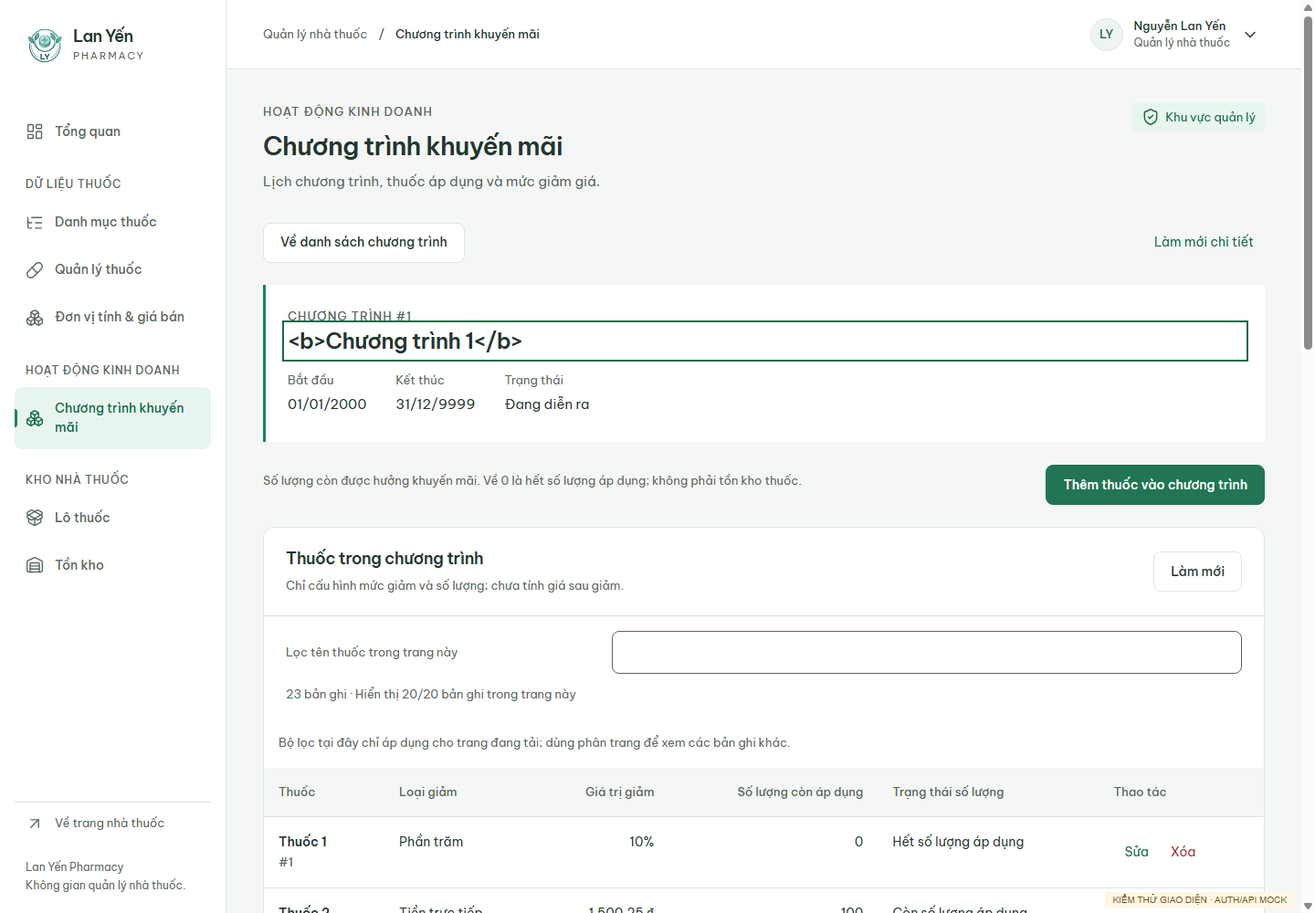
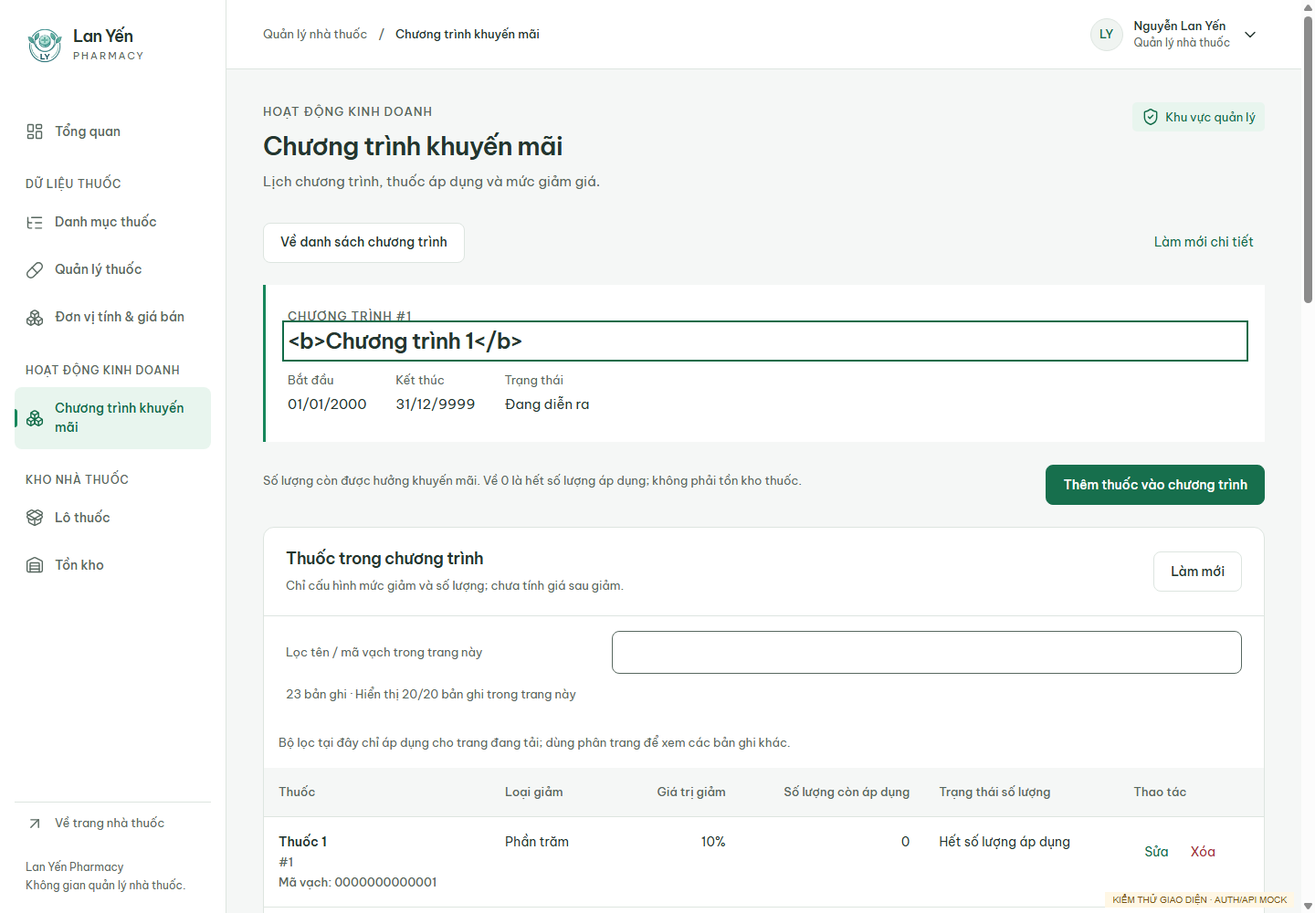
refactor(products): Thêm trường MaVach cho thuốc

diff --git a/frontend/pages/manager/index.html b/frontend/pages/manager/index.html
@@ -1,4 +1,4 @@
-<!doctype html>
+<!doctype html>
 <html lang="vi">
 <head>
     <meta charset="utf-8">
@@ -161,7 +161,7 @@
                         <form id="promotion-form" novalidate>
                             <div id="promotion-program-fields" class="category-dialog__body promotion-fields"></div>
                             <div id="promotion-item-fields" class="category-dialog__body promotion-fields" hidden>
-                                <div id="promotion-product-picker"><label for="promotion-product-search">Tìm thuốc theo tên, mã dược, số đăng ký</label><div class="promotion-product-search"><input id="promotion-product-search" class="categories-input" type="search"><button id="promotion-product-find" class="button button-outline" type="button">Tìm thuốc</button></div><label for="promotion-MaThuoc">Chọn thuốc *</label><select id="promotion-MaThuoc" class="categories-input" aria-describedby="promotion-MaThuoc-error" disabled><option value="">Chọn thuốc…</option></select><p id="promotion-MaThuoc-error" class="category-dialog__error" role="status"></p><p id="promotion-picker-status" class="products-note" role="status"></p><div class="categories-actions"><button id="promotion-picker-prev" class="categories-action" type="button" disabled>Trang thuốc trước</button><button id="promotion-picker-next" class="categories-action" type="button" disabled>Trang thuốc sau</button></div></div>
+                                <div id="promotion-product-picker"><label for="promotion-product-search">Tìm thuốc theo tên, mã vạch, mã dược, số đăng ký</label><div class="promotion-product-search"><input id="promotion-product-search" class="categories-input" type="search"><button id="promotion-product-find" class="button button-outline" type="button">Tìm thuốc</button></div><label for="promotion-MaThuoc">Chọn thuốc *</label><select id="promotion-MaThuoc" class="categories-input" aria-describedby="promotion-MaThuoc-error" disabled><option value="">Chọn thuốc…</option></select><p id="promotion-MaThuoc-error" class="category-dialog__error" role="status"></p><p id="promotion-picker-status" class="products-note" role="status"></p><div class="categories-actions"><button id="promotion-picker-prev" class="categories-action" type="button" disabled>Trang thuốc trước</button><button id="promotion-picker-next" class="categories-action" type="button" disabled>Trang thuốc sau</button></div></div>
                                 <p id="promotion-selected-product" class="products-note" hidden></p>
                                 <div><label for="promotion-LoaiGiamGia">Loại giảm giá *</label><select id="promotion-LoaiGiamGia" class="categories-input" aria-describedby="promotion-LoaiGiamGia-error"><option value="true">Theo phần trăm</option><option value="false">Giảm tiền trực tiếp</option></select><p id="promotion-LoaiGiamGia-error" class="category-dialog__error" role="status"></p></div>
                                 <div><label id="promotion-discount-label" for="promotion-GiaTriGiam">Giá trị giảm (%) *</label><input id="promotion-GiaTriGiam" class="categories-input" type="text" inputmode="decimal" required aria-describedby="promotion-discount-help promotion-GiaTriGiam-error"><p id="promotion-discount-help" class="category-dialog__help"></p><p id="promotion-GiaTriGiam-error" class="category-dialog__error" role="status"></p></div>
@@ -176,7 +176,7 @@
                     <section class="categories-surface stock-picker" aria-labelledby="batch-picker-title">
                         <h2 id="batch-picker-title">Chọn thuốc để quản lý lô</h2>
                         <form id="batch-product-search" class="stock-picker-form" role="search" novalidate>
-                            <div class="products-field"><label for="batch-search">Tìm tên thuốc, mã dược hoặc số đăng ký</label><input id="batch-search" class="categories-input" type="search" aria-describedby="batch-search-error"></div><button class="button button-outline" type="submit">Tìm thuốc</button>
+                            <div class="products-field"><label for="batch-search">Tìm tên thuốc, mã vạch, mã dược hoặc số đăng ký</label><input id="batch-search" class="categories-input" type="search" aria-describedby="batch-search-error"></div><button class="button button-outline" type="submit">Tìm thuốc</button>
                         </form>
                         <p id="batch-search-error" class="category-dialog__error" role="status"></p>
                         <div class="stock-picker-form"><div class="products-field"><label for="batch-product-select">Thuốc trong trang kết quả</label><select id="batch-product-select" class="categories-input" disabled><option value="">Chọn thuốc…</option></select></div><button id="batch-products-prev" class="button button-outline" type="button" disabled>Trước</button><button id="batch-products-next" class="button button-outline" type="button" disabled>Sau</button><button id="batch-products-retry" class="categories-action" type="button">Tải lại thuốc</button></div>
@@ -209,7 +209,7 @@
                         <section class="units-picker categories-surface" aria-labelledby="units-picker-title">
                             <h2 id="units-picker-title">Chọn thuốc</h2>
                             <form id="units-search-form" role="search">
-                                <label for="units-search">Tên thuốc, mã dược hoặc số đăng ký</label>
+                                <label for="units-search">Tên thuốc, mã vạch, mã dược hoặc số đăng ký</label>
                                 <input id="units-search" class="categories-input" type="search" aria-describedby="units-search-error" placeholder="Tìm thuốc…">
                                 <button class="button button-outline" type="submit">Tìm kiếm</button>
                                 <p id="units-search-error" class="category-dialog__error" role="status"></p>
@@ -279,10 +279,10 @@
                     <p id="products-feedback" class="categories-feedback" role="status" hidden></p>
                     <div id="products-list">
                         <form id="products-filters" class="products-filters" role="search">
-                            <div class="products-field products-filters__search"><label for="products-search">Tìm thuốc</label><input id="products-search" class="categories-input" type="search" placeholder="Tên thuốc, mã dược, số đăng ký" aria-describedby="products-filter-error"></div>
+                            <div class="products-field products-filters__search"><label for="products-search">Tìm thuốc</label><input id="products-search" class="categories-input" type="search" placeholder="Tên thuốc, mã vạch, mã dược, số đăng ký" aria-describedby="products-filter-error"></div>
                             <div class="products-field"><label for="products-category">Danh mục</label><select id="products-category" class="categories-input"><option value="">Tất cả danh mục</option></select></div>
                             <div class="products-field"><label for="products-classification">Phân loại</label><select id="products-classification" class="categories-input"><option value="">Tất cả phân loại</option><option value="true">Cần dược sĩ tư vấn</option><option value="false">Không cần tư vấn</option></select></div>
-                            <div class="products-field"><label for="products-sort">Sắp xếp</label><select id="products-sort" class="categories-input"><option value="MaThuoc:desc">Mã mới nhất</option><option value="MaThuoc:asc">Mã tăng dần</option><option value="TenThuoc:asc">Tên A → Z</option><option value="TenThuoc:desc">Tên Z → A</option><option value="MaDuoc:asc">Mã dược tăng dần</option><option value="NguongTonKho:asc">Ngưỡng tồn tăng dần</option></select></div>
+                            <div class="products-field"><label for="products-sort">Sắp xếp</label><select id="products-sort" class="categories-input"><option value="MaThuoc:desc">Mã mới nhất</option><option value="MaThuoc:asc">Mã tăng dần</option><option value="TenThuoc:asc">Tên A → Z</option><option value="TenThuoc:desc">Tên Z → A</option><option value="MaDuoc:asc">Mã dược tăng dần</option><option value="MaVach:asc">Mã vạch tăng dần</option><option value="NguongTonKho:asc">Ngưỡng tồn tăng dần</option></select></div>
                             <div class="products-filters__actions"><button class="button button-primary" type="submit">Áp dụng</button><button id="products-reset" class="button button-outline" type="button">Bỏ bộ lọc</button></div>
                             <p id="products-filter-error" class="category-dialog__error" role="status"></p>
                         </form>

diff --git a/frontend/js/pages/manager-promotions.js b/frontend/js/pages/manager-promotions.js
@@ -82,15 +82,15 @@ export function setupPromotions({ root, onAccessError }) {
     const itemRow = item => {
         const row = n('tr'), name = n('th'), identity = n('div', undefined, 'promotion-item-identity'), product = products.get(item.MaThuoc); name.scope = 'row';
         if (validHttps(product?.HinhAnh)) { const image = n('img'); image.src = product.HinhAnh; image.alt = `Ảnh ${product.TenThuoc}`; image.referrerPolicy = 'no-referrer'; image.addEventListener('error', () => { image.hidden = true; }); identity.append(image); }
-        const text = n('div'); text.append(n('strong', product.TenThuoc), n('span', `#${item.MaThuoc}`)); identity.append(text); name.append(identity);
+        const text = n('div'); text.append(n('strong', product.TenThuoc), n('span', `#${item.MaThuoc}`), n('span', `Mã vạch: ${product.MaVach || 'Chưa có'}`)); identity.append(text); name.append(identity);
         const actions = n('td');
         for (const [action, label] of [['edit', 'Sửa'], ['delete', 'Xóa']]) {
             const button = n('button', label, `categories-action${action === 'delete' ? ' categories-action--delete' : ''}`); button.type = 'button'; button.dataset.itemAction = action; button.dataset.id = item.MaThuoc; button.setAttribute('aria-label', `${label} khuyến mãi của ${product.TenThuoc}`); actions.append(button);
         }
         row.append(name, n('td', item.LoaiGiamGia ? 'Phần trăm' : 'Tiền trực tiếp'), n('td', formatPromotionDiscount(item), 'stock-number'), n('td', new Intl.NumberFormat('vi-VN').format(item.SoLuong), 'stock-number'), n('td', item.SoLuong ? 'Còn số lượng áp dụng' : 'Hết số lượng áp dụng'), actions); return row;
     };
-    itemRow.search = item => products.get(item.MaThuoc)?.TenThuoc || '';
-    const itemTable = setupStockTable({ root: $('promotion-items-table'), id: 'promotion-items', title: 'Thuốc trong chương trình', description: 'Chỉ cấu hình mức giảm và số lượng; chưa tính giá sau giảm.', columns: [['Thuốc'], ['Loại giảm'], ['Giá trị giảm', true], ['Số lượng còn áp dụng', true], ['Trạng thái số lượng'], ['Thao tác']], filterLabel: 'Lọc tên thuốc trong trang này', onLoad: next => loadItems(next), renderRow: itemRow });
+    itemRow.search = item => `${products.get(item.MaThuoc)?.TenThuoc || ''} ${products.get(item.MaThuoc)?.MaVach || ''}`;
+    const itemTable = setupStockTable({ root: $('promotion-items-table'), id: 'promotion-items', title: 'Thuốc trong chương trình', description: 'Chỉ cấu hình mức giảm và số lượng; chưa tính giá sau giảm.', columns: [['Thuốc'], ['Loại giảm'], ['Giá trị giảm', true], ['Số lượng còn áp dụng', true], ['Trạng thái số lượng'], ['Thao tác']], filterLabel: 'Lọc tên / mã vạch trong trang này', onLoad: next => loadItems(next), renderRow: itemRow });
     async function loadItems(next = itemPage) {
         if (!active || !current) return;
         const id = detailId, attempt = begin('items'); itemsReady = false; $('promotion-item-add').disabled = true; itemTable.loading(); itemPage = next;
@@ -161,7 +161,7 @@ export function setupPromotions({ root, onAccessError }) {
             const assigned = new Set(items.map(item => item.MaThuoc));
             for (const item of data.items) {
                 if (!Number.isInteger(item.MaThuoc) || typeof item.TenThuoc !== 'string') throw new ApiError('INVALID_RESPONSE');
-                const option = new Option(`${item.TenThuoc} · #${item.MaThuoc}${assigned.has(item.MaThuoc) ? ' · Đã có trong chương trình' : ''}`, String(item.MaThuoc)); option.disabled = assigned.has(item.MaThuoc); $('promotion-MaThuoc').append(option); products.set(item.MaThuoc, item);
+                const option = new Option(`${item.TenThuoc} · #${item.MaThuoc} · Mã vạch: ${item.MaVach || 'Chưa có'}${assigned.has(item.MaThuoc) ? ' · Đã có trong chương trình' : ''}`, String(item.MaThuoc)); option.disabled = assigned.has(item.MaThuoc); $('promotion-MaThuoc').append(option); products.set(item.MaThuoc, item);
             }
             pickerReady = true; pickerPages = data.pages; $('promotion-MaThuoc').disabled = busy;
             $('promotion-picker-status').textContent = data.total ? `${data.total} thuốc · Trang ${data.page}/${data.pages}. Thuốc đã gán được vô hiệu hóa.` : 'Không có thuốc phù hợp.';
@@ -186,7 +186,7 @@ export function setupPromotions({ root, onAccessError }) {
             if (!alive('dialog', attempt) || !dialog.open) return;
             if (itemMode) {
                 checkItem(data.item, detailId); if (data.item.MaThuoc !== id) throw new ApiError('INVALID_RESPONSE');
-                $('promotion-selected-product').textContent = `${products.get(id)?.TenThuoc || `Thuốc #${id}`} · #${id}`;
+                $('promotion-selected-product').textContent = `${products.get(id)?.TenThuoc || `Thuốc #${id}`} · #${id} · Mã vạch: ${products.get(id)?.MaVach || 'Chưa có'}`;
                 for (const key of ['LoaiGiamGia', 'SoLuong']) $(`promotion-${key}`).value = String(data.item[key]);
                 $('promotion-GiaTriGiam').value = data.item.LoaiGiamGia ? String(Number(data.item.GiaTriGiam)) : data.item.GiaTriGiam;
                 $('promotion-delete-name').textContent = `${products.get(id)?.TenThuoc || `Thuốc #${id}`} · ${formatPromotionDiscount(data.item)} · Số lượng: ${data.item.SoLuong}`;

diff --git a/frontend/js/pages/manager-inventory.js b/frontend/js/pages/manager-inventory.js
@@ -16,24 +16,26 @@ export function setupInventory({ root, onAccessError, onOpenBatches }) {
     const summaryRow = item => {
         if (typeof item.TonKhoThap !== 'boolean') throw new ApiError('INVALID_RESPONSE');
         const tr = n('tr'), name = n('th', `${item.TenThuoc} · #${item.MaThuoc}`); name.scope = 'row';
+        name.append(n('span', `Mã vạch: ${item.MaVach || 'Chưa có'}`, 'product-row-meta'));
         const state = n('span', item.TonKhoThap ? 'Chạm / dưới ngưỡng' : 'Trên ngưỡng', `manager-badge${item.TonKhoThap ? ' manager-badge--warning' : ''}`), td = n('td'); td.append(state);
         tr.append(name, n('td', number(item.TongSoLuongTon), 'stock-number'), n('td', number(item.NguongTonKho), 'stock-number'), td, actionCell(item)); return tr;
     };
-    summaryRow.search = item => item.TenThuoc;
+    summaryRow.search = item => `${item.TenThuoc} ${item.MaVach || ''}`;
     const expiryRow = item => {
         const data = sections.get('expiry').data;
         if (!['EXPIRING', 'EXPIRED'].includes(item.TrangThaiHan) || item.TrangThaiHan !== (data.status === 'expired' ? 'EXPIRED' : 'EXPIRING') || dateValue(item.HanSuDung) === null || typeof item.SoLoSanXuat !== 'string' || !Number.isInteger(item.MaLo)) throw new ApiError('INVALID_RESPONSE');
         const tr = n('tr'), name = n('th', item.TenThuoc); name.scope = 'row';
+        name.append(n('span', `Mã vạch: ${item.MaVach || 'Chưa có'}`, 'product-row-meta'));
         tr.append(name, n('td', `${item.SoLoSanXuat} · #${item.MaLo}`), n('td', formatBatchDate(item.HanSuDung), 'stock-date'), n('td', number(item.SoLuongTon), 'stock-number'), n('td', item.TrangThaiHan === 'EXPIRED' ? 'Đã hết hạn' : 'Sắp hết hạn'), n('td', expiryText(item.HanSuDung, data.as_of)), actionCell(item)); return tr;
     };
-    expiryRow.search = item => `${item.TenThuoc} ${item.SoLoSanXuat}`;
+    expiryRow.search = item => `${item.TenThuoc} ${item.MaVach || ''} ${item.SoLoSanXuat}`;
     const stockColumns = [['Thuốc'], ['Tổng SL tồn', true], ['Ngưỡng tồn', true], ['Trạng thái tồn'], ['Thao tác']];
     for (const [key, title, description, columns, renderRow, api, code] of [
         ['summary', 'Tổng hợp tồn theo thuốc', 'Tất cả thuốc, bao gồm thuốc chưa có lô. Tồn vật lý gồm cả lô đã hết hạn.', stockColumns, summaryRow, getInventorySummary, 'INVENTORY_SUMMARY'],
         ['low', 'Thuốc tồn kho thấp', 'Tổng tồn nhỏ hơn hoặc bằng ngưỡng của thuốc, theo kết quả Backend.', stockColumns, summaryRow, getLowStock, 'LOW_STOCK_LISTED'],
         ['expiry', 'Các lô cần theo dõi hạn', 'Chỉ lô còn số lượng tồn. Số ngày được tính từ mốc as_of của Backend.', [['Thuốc'], ['Số lô'], ['Hạn sử dụng'], ['SL tồn', true], ['Trạng thái hạn'], ['Thời gian còn lại'], ['Thao tác']], expiryRow, getExpiry, null]
     ]) {
-        const table = setupStockTable({ root: $(`inventory-${key}`), id: `inventory-${key}`, title, description, columns, filterLabel: key === 'expiry' ? 'Lọc tên thuốc / số lô trong trang này' : 'Lọc tên thuốc trong trang này', onLoad: page => load(key, page), renderRow });
+        const table = setupStockTable({ root: $(`inventory-${key}`), id: `inventory-${key}`, title, description, columns, filterLabel: key === 'expiry' ? 'Lọc tên / mã vạch / số lô trong trang này' : 'Lọc tên / mã vạch trong trang này', onLoad: page => load(key, page), renderRow });
         sections.set(key, { table, api, code, page: 1, version: 0, controller: undefined, data: undefined });
     }
     async function load(key, page = sections.get(key).page) {

diff --git a/frontend/js/pages/manager-batches.js b/frontend/js/pages/manager-batches.js
@@ -55,7 +55,7 @@ export function setupBatches({ root, onAccessError }) {
             if (data.code !== 'PRODUCTS_LISTED' || !Array.isArray(data.items)) throw new ApiError('INVALID_RESPONSE');
             for (const item of data.items) {
                 if (!Number.isInteger(item.MaThuoc) || typeof item.TenThuoc !== 'string') throw new ApiError('INVALID_RESPONSE');
-                $('batch-product-select').append(new Option(`${item.TenThuoc} · #${item.MaThuoc}`, String(item.MaThuoc)));
+                $('batch-product-select').append(new Option(`${item.TenThuoc} · #${item.MaThuoc} · Mã vạch: ${item.MaVach || 'Chưa có'}`, String(item.MaThuoc)));
             }
             $('batch-product-select').value = String(productId || ''); $('batch-product-select').disabled = !data.items.length;
             $('batch-picker-status').textContent = data.total ? `${data.total} thuốc · Trang ${data.page} / ${data.pages}` : 'Không tìm thấy thuốc phù hợp.';
@@ -75,7 +75,7 @@ export function setupBatches({ root, onAccessError }) {
             const data = await getProduct(id, { signal: selectionController.signal });
             if (!active || attempt !== selectionVersion) return;
             if (data.code !== 'PRODUCT_FOUND' || data.product?.MaThuoc !== id || typeof data.product.TenThuoc !== 'string') throw new ApiError('INVALID_RESPONSE');
-            product = data.product; const identity = n('div'); identity.append(n('h3', product.TenThuoc), n('p', `#${id} · Mã dược: ${product.MaDuoc} · SĐK: ${product.SoDangKy}`));
+            product = data.product; const identity = n('div'); identity.append(n('h3', product.TenThuoc), n('p', `#${id} · Mã dược: ${product.MaDuoc} · SĐK: ${product.SoDangKy}`), n('p', `Mã vạch: ${product.MaVach || 'Chưa có'}`));
             if (validHttps(product.HinhAnh)) { const image = n('img'); image.alt = `Ảnh ${product.TenThuoc}`; image.referrerPolicy = 'no-referrer'; image.src = product.HinhAnh; image.addEventListener('error', () => { image.hidden = true; }); $('batch-product-identity').append(image); }
             $('batch-product-identity').append(identity); $('batch-product-identity').hidden = false; $('batch-add').disabled = false;
             $('batch-product-select').value = String(id); loadList(1);

diff --git a/frontend/js/pages/manager-units.js b/frontend/js/pages/manager-units.js
@@ -49,7 +49,7 @@ export function setupUnits({ root, onAccessError }) {
             for (const item of data.items) {
                 if (!integer(item.MaThuoc) || typeof item.TenThuoc !== 'string') throw new ApiError('INVALID_RESPONSE');
                 const li = node('li'), button = node('button'); button.type = 'button'; button.dataset.id = item.MaThuoc;
-                button.append(node('strong', item.TenThuoc), node('span', `#${item.MaThuoc} · ${item.MaDuoc || 'Chưa có mã dược'}`));
+                button.append(node('strong', item.TenThuoc), node('span', `#${item.MaThuoc} · ${item.MaDuoc || 'Chưa có mã dược'}`), node('span', `Mã vạch: ${item.MaVach || 'Chưa có'}`));
                 li.append(button); $('units-products').append(li);
             }
             markSelection(); $('units-picker-status').textContent = data.total ? `${data.total} thuốc phù hợp` : 'Không tìm thấy thuốc. Thử từ khóa khác.';
@@ -103,7 +103,7 @@ export function setupUnits({ root, onAccessError }) {
             if (!active || attempt !== selectionVersion) return;
             if (data.code !== 'PRODUCT_FOUND' || data.product?.MaThuoc !== id || typeof data.product.TenThuoc !== 'string') throw new ApiError('INVALID_RESPONSE');
             product = data.product;
-            const identity = node('div'); identity.append(node('h3', product.TenThuoc), node('p', `#${id} · Mã dược: ${product.MaDuoc} · SĐK: ${product.SoDangKy}`));
+            const identity = node('div'); identity.append(node('h3', product.TenThuoc), node('p', `#${id} · Mã dược: ${product.MaDuoc} · SĐK: ${product.SoDangKy}`), node('p', `Mã vạch: ${product.MaVach || 'Chưa có'}`));
             if (validHttps(product.HinhAnh)) {
                 const image = node('img'); image.alt = `Ảnh ${product.TenThuoc}`; image.referrerPolicy = 'no-referrer'; image.src = product.HinhAnh;
                 image.addEventListener('error', () => { image.hidden = true; }); $('units-product').append(image);

diff --git a/frontend/js/pages/manager-products.js b/frontend/js/pages/manager-products.js
@@ -167,7 +167,7 @@ export function setupProducts({ root, onAccessError }) {
                 image.addEventListener('error', () => { image.hidden = true; });
                 const text = node('div'); text.append(node('strong', product.TenThuoc), node('span', `#${product.MaThuoc}`, 'product-row-meta'));
                 identityWrap.append(image, text); identity.append(identityWrap);
-                const identifiers = node('td'); identifiers.append(node('span', product.MaDuoc), node('span', `SĐK: ${product.SoDangKy}`, 'product-row-meta'));
+                const identifiers = node('td'); identifiers.append(node('span', product.MaDuoc), node('span', `Mã vạch: ${product.MaVach || 'Chưa có'}`, 'product-row-meta'), node('span', `SĐK: ${product.SoDangKy}`, 'product-row-meta'));
                 const actions = node('td'), actionWrap = node('div', undefined, 'product-row-actions');
                 for (const [action, label] of [['view', 'Xem'], ['edit', 'Sửa'], ['delete', 'Xóa']]) {
                     const button = node('button', label, `categories-action${action === 'delete' ? ' categories-action--delete' : ''}`);

diff --git a/frontend/js/utils/product-validation.js b/frontend/js/utils/product-validation.js
@@ -1,5 +1,5 @@
 export const PRODUCT_GROUPS = [
-    { title: 'Thông tin cơ bản', fields: [['TenThuoc', 'Tên thuốc', 255], ['MaLoaiThuoc', 'Danh mục thuốc', 'category'], ['MaDuoc', 'Mã dược', 50], ['SoDangKy', 'Số đăng ký', 100], ['PhanLoai', 'Phân loại thuốc', 'boolean']] },
+    { title: 'Thông tin cơ bản', fields: [['TenThuoc', 'Tên thuốc', 255], ['MaLoaiThuoc', 'Danh mục thuốc', 'category'], ['MaDuoc', 'Mã dược', 50], ['MaVach', 'Mã vạch', 255], ['SoDangKy', 'Số đăng ký', 100], ['PhanLoai', 'Phân loại thuốc', 'boolean']] },
     { title: 'Thông tin sản xuất', fields: [['DangBaoChe', 'Dạng bào chế', 255], ['QuyCachDongGoi', 'Quy cách đóng gói', 255], ['NhaSanXuat', 'Nhà sản xuất', 255], ['NuocSanXuat', 'Nước sản xuất', 255]] },
     { title: 'Thông tin sử dụng', fields: [['MoTa', 'Mô tả', 'text'], ['CachDung', 'Cách dùng', 'text'], ['ChongChiDinh', 'Chống chỉ định', 'text'], ['BaoQuan', 'Bảo quản', 'text']] },
     { title: 'Quản lý tồn kho', fields: [['NguongTonKho', 'Ngưỡng tồn kho', 'integer']] }

diff --git a/frontend/js/pages/manager-dashboard.js b/frontend/js/pages/manager-dashboard.js
@@ -64,6 +64,7 @@ export function setupDashboard({ root, onAccessError }) {
         const list = $(key === 'low-stock' ? 'low-stock-list' : 'expiring-list'); list.replaceChildren();
         for (const item of data.items) {
             const row = el('li'); row.append(el('strong', item.TenThuoc));
+            row.append(el('span', `Mã vạch: ${item.MaVach || 'Chưa có'}`, 'dashboard-alert-meta'));
             if (key === 'low-stock') {
                 row.append(el('span', `Tồn ${formatCount(item.TongSoLuongTon)} · Ngưỡng ${formatCount(item.NguongTonKho)}`));
             } else row.append(el('span', `Lô ${item.SoLoSanXuat} · HSD ${formatStoredDate(item.HanSuDung)}`),

diff --git a/backend/tests/check_barcode_live.py b/backend/tests/check_barcode_live.py
@@ -1,0 +1,72 @@
+r"""Read-only MaVach metadata/API checks against real PostgreSQL, without mocks.
+
+From backend: .venv\Scripts\python.exe tests/check_barcode_live.py
+Uses test-client signed session for an existing active manager, not an OTP test.
+"""
+import secrets
+import sys
+from pathlib import Path
+from urllib.parse import urlencode
+
+sys.path.insert(0, str(Path(__file__).resolve().parents[1]))
+
+from sqlalchemy import inspect, select, text
+from app import create_app
+from app.extensions import db
+from app.models.nguoi_dung import NguoiDung
+from app.models.thuoc import Thuoc
+
+
+def check():
+    app = create_app()
+    with app.app_context():
+        db.session.execute(text('SET TRANSACTION READ ONLY'))
+        inspector = inspect(db.session.connection())
+        column = next(value for value in inspector.get_columns('Thuoc') if value['name'] == 'MaVach')
+        assert column['type'].length == Thuoc.__table__.c.MaVach.type.length == 255
+        assert column['nullable'] is False and column['default'] is None
+        manager = db.session.execute(select(NguoiDung.MaNguoiDung).where(
+            NguoiDung.VaiTro == 2, NguoiDung.TrangThai.is_(False)).limit(1)).scalar_one_or_none()
+        assert manager is not None, 'NO_ACTIVE_MANAGER'
+        client = app.test_client()
+        base = 'https://localhost'
+        with client.session_transaction(base_url=base) as session:
+            session['user_id'] = manager
+            session['csrf_token'] = secrets.token_urlsafe(32)
+
+        def get(path, expected):
+            response = client.get(path, base_url=base)
+            result = response.get_json()
+            assert response.status_code == 200 and result['code'] == expected
+            return result
+
+        products = get('/api/manager/products?page=1&per_page=20&sort_by=MaVach', 'PRODUCTS_LISTED')
+        for product in products['items']:
+            assert isinstance(product['MaVach'], str)
+            detail = get(f'/api/manager/products/{product["MaThuoc"]}', 'PRODUCT_FOUND')
+            assert detail['product']['MaVach'] == product['MaVach']
+        if products['items']:
+            query = urlencode({'search': products['items'][0]['MaVach'], 'per_page': 100})
+            result = get('/api/manager/products?' + query, 'PRODUCTS_LISTED')
+            assert any(row['MaThuoc'] == products['items'][0]['MaThuoc'] for row in result['items'])
+        inventory_count = 0
+        for suffix, code in [('summary', 'INVENTORY_SUMMARY'), ('low-stock', 'LOW_STOCK_LISTED'),
+                             ('expiring?status=expiring', 'EXPIRING_BATCHES_LISTED'),
+                             ('expiring?status=expired', 'EXPIRED_BATCHES_LISTED')]:
+            result = get('/api/manager/inventory/' + suffix, code)
+            for row in result['items']:
+                assert isinstance(row['MaVach'], str)
+                inventory_count += 1
+        db.session.rollback()
+        print(f'PASS real PostgreSQL READ ONLY: MaVach metadata/model match, product sort/list/detail, 4 inventory queries; {len(products["items"])} product rows, {inventory_count} inventory rows checked.')
+        if not products['items']:
+            print('SKIP populated barcode roundtrip/search: database has no products.')
+        print('Not tested: live create/update writes, OTP and browser-to-live-server flow.')
+
+
+if __name__ == '__main__':
+    try:
+        check()
+    except Exception as error:
+        print(f'FAIL barcode check: {type(error).__name__}')
+        sys.exit(1)

diff --git a/backend/tests/test_products.py b/backend/tests/test_products.py
@@ -15,7 +15,7 @@ BASE = '/api/manager/products'
 
 def valid_data():
     return dict(MaLoaiThuoc=2, HinhAnh='https://example.com/medicine.jpg',
-                TenThuoc='Thuoc A', MoTa='Mo ta', MaDuoc='MD01', SoDangKy='SDK01',
+                TenThuoc='Thuoc A', MoTa='Mo ta', MaDuoc='MD01', MaVach='0012345678901', SoDangKy='SDK01',
                 DangBaoChe='Vien', QuyCachDongGoi='Hop', NhaSanXuat='NSX',
                 NuocSanXuat='Viet Nam', CachDung='Theo huong dan',
                 ChongChiDinh='Theo huong dan', BaoQuan='Noi kho', NguongTonKho=0)
@@ -79,6 +79,21 @@ class ProductTests(unittest.TestCase):
         self.assertIs(response.json['product']['PhanLoai'], True)
         self.assertEqual(response.json['product']['TenThuoc'], 'Thuoc A')
 
+    def test_barcode_roundtrip_preserves_leading_zeros_and_is_not_unique(self):
+        for _ in range(2):
+            response = self.send(json=dict(valid_data(), MaVach='  0012345678901  '))
+            self.assertEqual(response.status_code, 201)
+            self.assertEqual(response.json['product']['MaVach'], '0012345678901')
+        self.assertEqual(self.send('GET', BASE + '/3').json['product']['MaVach'], '0012345678901')
+
+    def test_barcode_schema_matches_existing_database_column(self):
+        from app.models.thuoc import Thuoc
+        column = Thuoc.__table__.c.MaVach
+        self.assertEqual(column.type.length, 255)
+        self.assertFalse(column.nullable)
+        self.assertIsNone(column.default)
+        self.assertFalse(column.unique)
+
     def test_missing_each_required_field(self):
         for field in valid_data():
             body = valid_data()
@@ -98,7 +113,7 @@ class ProductTests(unittest.TestCase):
                     self.assertEqual(self.send(json=dict(valid_data(), **{field: value})).status_code, 400)
 
     def test_string_length_limits(self):
-        limits = dict(TenThuoc=255, MaDuoc=50, SoDangKy=100, DangBaoChe=255,
+        limits = dict(TenThuoc=255, MaDuoc=50, MaVach=255, SoDangKy=100, DangBaoChe=255,
                       QuyCachDongGoi=255, NhaSanXuat=255, NuocSanXuat=255)
         for field, limit in limits.items():
             with self.subTest(field=field):
@@ -303,7 +318,7 @@ class ProductRepositoryTests(unittest.TestCase):
             compiled = self.compile(execute.call_args.args[0])
             sql = str(compiled)
             where = sql.split('WHERE')[1].split('ORDER BY')[0]
-            for field in ('TenThuoc', 'MaDuoc', 'SoDangKy', 'MaLoaiThuoc', 'PhanLoai'):
+            for field in ('TenThuoc', 'MaDuoc', 'MaVach', 'SoDangKy', 'MaLoaiThuoc', 'PhanLoai'):
                 self.assertIn('"' + field + '"', where)
             self.assertIn('/%/_', compiled.params.values())
             self.assertIn('"TenThuoc" DESC, "Thuoc"."MaThuoc" ASC', sql)

diff --git a/backend/tests/test_batches_inventory.py b/backend/tests/test_batches_inventory.py
@@ -193,8 +193,8 @@ class BatchInventoryTests(unittest.TestCase):
         self.assertFalse(hasattr(lo_thuoc_repository, 'remove'))
 
     def test_summary_serializes_aggregate_and_zero_stock(self):
-        rows = [dict(MaThuoc=3, TenThuoc='A', TongSoLuongTon=150, NguongTonKho=10, TonKhoThap=False),
-                dict(MaThuoc=4, TenThuoc='B', TongSoLuongTon=0, NguongTonKho=0, TonKhoThap=True)]
+        rows = [dict(MaThuoc=3, TenThuoc='A', MaVach='0012345678901', TongSoLuongTon=150, NguongTonKho=10, TonKhoThap=False),
+                dict(MaThuoc=4, TenThuoc='B', MaVach='0012345678902', TongSoLuongTon=0, NguongTonKho=0, TonKhoThap=True)]
         self.summary.return_value = (rows, 2)
         response = self.send('GET', INVENTORY + '/summary')
         self.assertEqual(response.status_code, 200)
@@ -211,13 +211,14 @@ class BatchInventoryTests(unittest.TestCase):
 
     def expiry_row(self, expiry):
         return dict(loaded_data(), MaLo=7, MaThuoc=3, SoLuongTon=30,
-                    TenThuoc='A', HanSuDung=expiry)
+                    TenThuoc='A', MaVach='0012345678901', HanSuDung=expiry)
 
     def test_expiring_default_days(self):
         self.expiry.return_value = ([self.expiry_row(TODAY + timedelta(days=30))], 1)
         response = self.send('GET', INVENTORY + '/expiring')
         self.assertEqual(response.status_code, 200)
         self.assertEqual(response.json['items'][0]['TrangThaiHan'], 'EXPIRING')
+        self.assertEqual(response.json['items'][0]['MaVach'], '0012345678901')
         self.assertEqual(response.json['as_of'], TODAY.isoformat())
         self.expiry.assert_called_once_with(TODAY, TODAY + timedelta(days=30), 'expiring', 1, 20)
 

diff --git a/backend/app/repositories/inventory_repository.py b/backend/app/repositories/inventory_repository.py
@@ -18,7 +18,7 @@ def summary(page, per_page, low_stock=False):
         .group_by(LoThuoc.MaThuoc).subquery()
     total = func.coalesce(totals.c.total, 0)
     warning = total <= Thuoc.NguongTonKho
-    query = select(Thuoc.MaThuoc, Thuoc.TenThuoc, total.label('TongSoLuongTon'),
+    query = select(Thuoc.MaThuoc, Thuoc.TenThuoc, Thuoc.MaVach, total.label('TongSoLuongTon'),
                    Thuoc.NguongTonKho, warning.label('TonKhoThap')) \
         .outerjoin(totals, totals.c.MaThuoc == Thuoc.MaThuoc).order_by(Thuoc.MaThuoc)
     if low_stock:
@@ -27,7 +27,7 @@ def summary(page, per_page, low_stock=False):
 
 
 def expiring(today, until, status, page, per_page):
-    query = select(*LoThuoc.__table__.columns, Thuoc.TenThuoc) \
+    query = select(*LoThuoc.__table__.columns, Thuoc.TenThuoc, Thuoc.MaVach) \
         .join(Thuoc, Thuoc.MaThuoc == LoThuoc.MaThuoc).where(LoThuoc.SoLuongTon > 0)
     if status == 'expired':
         query = query.where(LoThuoc.HanSuDung < today)
